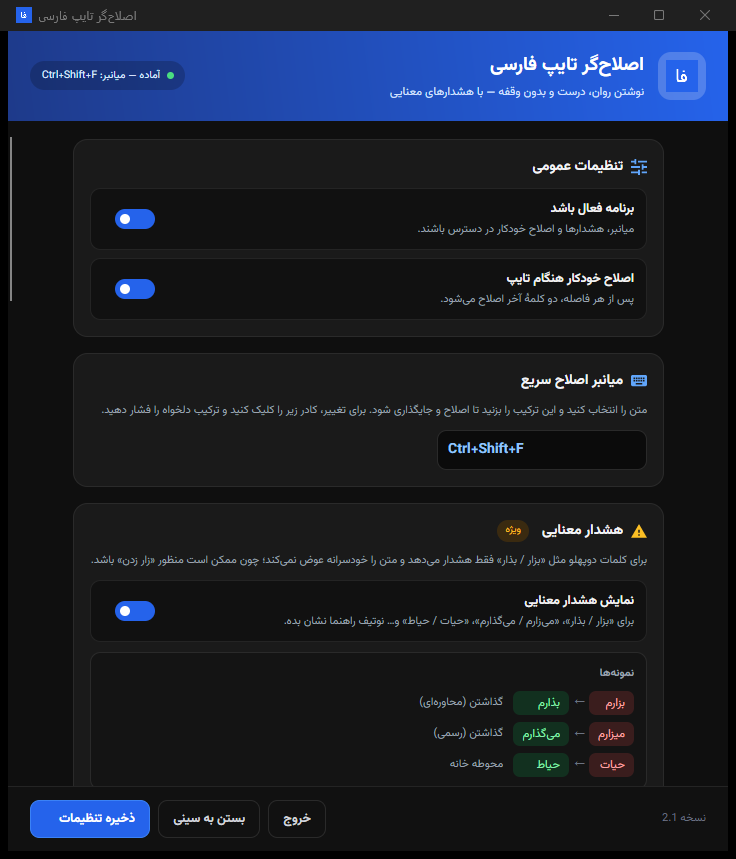
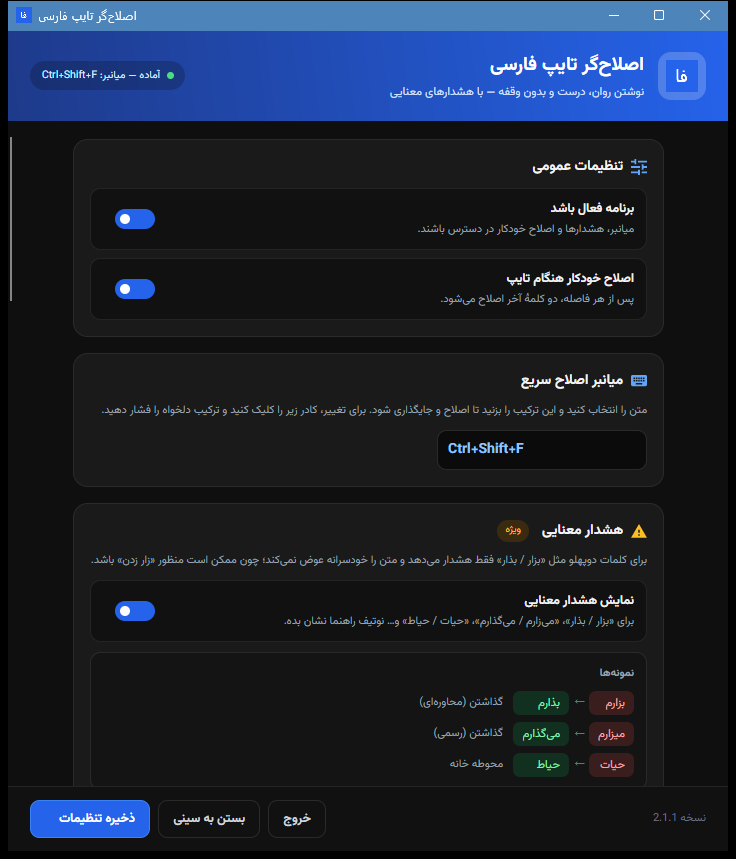
fix: prevent clipboard sentinel leaks and add Wayland fallback

Changed region(s): [[0.0, 0.0, 1.0, 0.0605], [0.875, 0.9383, 0.9062, 0.9686]]

diff --git a/dotnet/src/PersianTypoFixer.App/AppController.cs b/dotnet/src/PersianTypoFixer.App/AppController.cs
@@ -10,6 +10,7 @@ namespace PersianTypoFixer.App;
 public sealed class AppController
 {
     private const string Sentinel = "PTF-CLIP-SENTINEL-9A3F4B2C";
+    private const string SentinelPrefix = "PTF-CLIP-SENTINEL";
 
     private readonly IClassicDesktopStyleApplicationLifetime _lifetime;
     private readonly IInputBackend _input;
@@ -99,27 +100,34 @@ public sealed class AppController
         {
             _linuxHotkey?.Dispose();
             _linuxHotkey = null;
-            try
+            if (_input is LinuxInput { IsWayland: true })
             {
-                var hotkey = new LinuxHotkey(FixSelection, _config.Hotkey);
-                hotkey.Start();
-                if (hotkey.IsRegistered)
-                {
-                    _linuxHotkey = hotkey;
-                    SetStatus($"آماده — میانبر: {_config.Hotkey} (اصلاح خودکار هنگام تایپ فقط در ویندوز)");
-                }
-                else
-                {
-                    hotkey.Dispose();
-                    SetStatus("میانبر سراسری ثبت نشد (X11 لازم است)؛ از منوی سینی برای اصلاح متن استفاده کنید.");
-                }
+                SetStatus("حالت Wayland: میانبر سراسری در دسترس نیست؛ از منوی سینی برای اصلاح متن استفاده کنید.");
             }
-            catch (Exception ex)
+            else
             {
-                SetStatus("خطا در ثبت میانبر: " + ex.Message);
+                try
+                {
+                    var hotkey = new LinuxHotkey(FixSelection, _config.Hotkey);
+                    hotkey.Start();
+                    if (hotkey.IsRegistered)
+                    {
+                        _linuxHotkey = hotkey;
+                        SetStatus($"آماده — میانبر: {_config.Hotkey} (اصلاح خودکار هنگام تایپ فقط در ویندوز)");
+                    }
+                    else
+                    {
+                        hotkey.Dispose();
+                        SetStatus("میانبر سراسری ثبت نشد (X11 لازم است)؛ از منوی سینی برای اصلاح متن استفاده کنید.");
+                    }
+                }
+                catch (Exception ex)
+                {
+                    SetStatus("خطا در ثبت میانبر: " + ex.Message);
+                }
             }
             if (_input is LinuxInput linux && !linux.IsAvailable)
-                SetStatus(Status + " | xclip یا xsel نصب نیست؛ کلیپبورد در دسترس نیست.");
+                SetStatus(Status + " | ابزار کلیپبورد نصب نیست (wl-clipboard برای Wayland، xclip/xsel برای X11).");
         }
 
         if (_enabledItem != null)
@@ -139,6 +147,8 @@ public sealed class AppController
         _window?.UpdateStatus();
     }
 
+    private int _fixBusy;
+
     public void FixSelection() => FixSelectionCore(copyOnly: false);
 
     public void FixSelectionAndCopy() => FixSelectionCore(copyOnly: true);
@@ -150,66 +160,139 @@ public sealed class AppController
             SetStatus("برنامه غیرفعال است.");
             return;
         }
+        if (Interlocked.CompareExchange(ref _fixBusy, 1, 0) != 0)
+            return;
+
         Task.Run(() =>
         {
+            var backup = "";
+            var backupSaved = false;
+            var restoreBackup = false;
             try
             {
-                var backup = _input.GetClipboard();
+                if (OperatingSystem.IsLinux())
+                {
+                    var text = _input.GetSelection();
+                    if (string.IsNullOrWhiteSpace(text))
+                    {
+                        SetStatus("متنی انتخاب نشده بود.");
+                        return;
+                    }
+
+                    NotifyNotices(text);
+                    var fixedText = Fixer.FixText(text, _config);
+                    if (copyOnly)
+                    {
+                        _input.SetClipboard(fixedText);
+                        SetStatus(fixedText == text
+                            ? "متن در کلیپبورد کپی شد."
+                            : "متن اصلاحشده در کلیپبورد کپی شد.");
+                        return;
+                    }
+                    if (_input is LinuxInput { CanAutoPaste: false })
+                    {
+                        _input.SetClipboard(fixedText);
+                        SetStatus(fixedText == text
+                            ? "متن در کلیپبورد کپی شد؛ برای جایگذاری Paste کنید."
+                            : "متن اصلاحشده در کلیپبورد کپی شد؛ برای جایگذاری Paste کنید.");
+                        return;
+                    }
+                    if (fixedText == text)
+                    {
+                        SetStatus("تغییری لازم نبود.");
+                        return;
+                    }
+
+                    backup = _input.GetClipboard();
+                    backupSaved = true;
+                    restoreBackup = true;
+                    _input.SetClipboard(fixedText);
+                    Thread.Sleep(150);
+                    _input.Paste();
+                    Thread.Sleep(600);
+                    if (_input.GetClipboard() == fixedText)
+                        _input.SetClipboard(SafeBackup(backup));
+                    restoreBackup = false;
+                    SetStatus("متن انتخابشده اصلاح شد.");
+                    return;
+                }
+
+                backup = _input.GetClipboard();
+                backupSaved = true;
+                restoreBackup = true;
                 _input.SetClipboard(Sentinel);
                 Thread.Sleep(150);
+                if (_input.GetClipboard() != Sentinel)
+                {
+                    SetStatus("کلیپبورد در دسترس نیست.");
+                    return;
+                }
                 _input.Copy();
-                var text = Sentinel;
+                var selected = Sentinel;
                 var deadline = DateTime.UtcNow.AddMilliseconds(1200);
                 while (DateTime.UtcNow < deadline)
                 {
                     Thread.Sleep(30);
-                    text = _input.GetClipboard();
-                    if (text != Sentinel)
+                    selected = _input.GetClipboard();
+                    if (selected != Sentinel)
                         break;
                 }
-                if (text == Sentinel || string.IsNullOrWhiteSpace(text))
+                if (selected == Sentinel || string.IsNullOrWhiteSpace(selected))
                 {
-                    _input.SetClipboard(backup);
                     SetStatus("متنی انتخاب نشده بود.");
                     return;
                 }
-                NotifyNotices(text);
-                var fixedText = Fixer.FixText(text, _config);
+
+                NotifyNotices(selected);
+                var fixedSelection = Fixer.FixText(selected, _config);
                 if (copyOnly)
                 {
-                    _input.SetClipboard(fixedText);
-                    SetStatus(fixedText == text
+                    _input.SetClipboard(fixedSelection);
+                    restoreBackup = false;
+                    SetStatus(fixedSelection == selected
                         ? "متن در کلیپبورد کپی شد."
                         : "متن اصلاحشده در کلیپبورد کپی شد.");
                     return;
                 }
-                if (fixedText == text)
+                if (fixedSelection == selected)
                 {
-                    _input.SetClipboard(backup);
                     SetStatus("تغییری لازم نبود.");
                     return;
                 }
-                _input.SetClipboard(fixedText);
-                Thread.Sleep(OperatingSystem.IsLinux() ? 150 : 40);
+
+                _input.SetClipboard(fixedSelection);
+                Thread.Sleep(40);
                 _input.Paste();
-                _ = Task.Run(async () =>
-                {
-                    await Task.Delay(600).ConfigureAwait(false);
-                    try
-                    {
-                        _input.SetClipboard(backup);
-                    }
-                    catch
-                    {
-                    }
-                });
+                Thread.Sleep(600);
+                if (_input.GetClipboard() == fixedSelection)
+                    _input.SetClipboard(SafeBackup(backup));
+                restoreBackup = false;
                 SetStatus("متن انتخابشده اصلاح شد.");
             }
             catch (Exception ex)
             {
                 SetStatus("خطا: " + ex.Message);
             }
+            finally
+            {
+                if (restoreBackup && backupSaved)
+                {
+                    try
+                    {
+                        _input.SetClipboard(SafeBackup(backup));
+                    }
+                    catch
+                    {
+                    }
+                }
+                Interlocked.Exchange(ref _fixBusy, 0);
+            }
         });
+    }
+
+    private static string SafeBackup(string backup)
+    {
+        return backup.Contains(SentinelPrefix, StringComparison.Ordinal) ? "" : backup;
     }
 
     public void NotifyNotices(string text)
@@ -290,6 +373,9 @@ public sealed class AppController
 
     public void Exit()
     {
+        var deadline = DateTime.UtcNow.AddSeconds(2);
+        while (Volatile.Read(ref _fixBusy) != 0 && DateTime.UtcNow < deadline)
+            Thread.Sleep(50);
         try
         {
             _noticeTimer?.Stop();
@@ -385,6 +471,7 @@ public sealed class AppController
     private sealed class NullInput : IInputBackend
     {
         public string GetClipboard() => "";
+        public string? GetSelection() => null;
         public void SetClipboard(string text) { }
         public void PressBackspace(int count) { }
         public void Paste() { }

diff --git a/dotnet/src/PersianTypoFixer.Core/Platform/LinuxInput.cs b/dotnet/src/PersianTypoFixer.Core/Platform/LinuxInput.cs
@@ -29,36 +29,54 @@ public sealed class LinuxInput : IInputBackend
 
     private readonly string? _clipboardGet;
     private readonly string? _clipboardSet;
+    private readonly string? _selectionGet;
     private readonly string? _injector;
     private volatile bool _xtest = true;
 
     public LinuxInput()
     {
         var wayland = !string.IsNullOrEmpty(Environment.GetEnvironmentVariable("WAYLAND_DISPLAY"));
+        IsWayland = wayland;
         if (wayland && Which("wl-paste") != null && Which("wl-copy") != null)
         {
             _clipboardGet = "wl-paste --no-newline";
             _clipboardSet = "wl-copy";
+            _selectionGet = "wl-paste --primary --no-newline";
         }
         else if (Which("xclip") != null)
         {
             _clipboardGet = "xclip -selection clipboard -o";
             _clipboardSet = "xclip -selection clipboard -i";
+            _selectionGet = "xclip -selection primary -o";
         }
         else if (Which("xsel") != null)
         {
             _clipboardGet = "xsel --clipboard --output";
             _clipboardSet = "xsel --clipboard --input";
+            _selectionGet = "xsel --primary --output";
         }
         else
         {
             _clipboardGet = null;
             _clipboardSet = null;
+            _selectionGet = null;
         }
         _injector = Which("xdotool") != null ? "xdotool" : Which("ydotool") != null ? "ydotool" : null;
     }
 
+    public bool IsWayland { get; }
+
+    public bool CanAutoPaste => !IsWayland;
+
     public bool IsAvailable => _clipboardGet != null && _clipboardSet != null;
+
+    public string? GetSelection()
+    {
+        if (_selectionGet == null)
+            return null;
+        var (code, output) = RunGet(_selectionGet);
+        return code == 0 ? output : null;
+    }
 
     public string GetClipboard()
     {

diff --git a/dotnet/src/PersianTypoFixer.Core/Platform/WindowsInput.cs b/dotnet/src/PersianTypoFixer.Core/Platform/WindowsInput.cs
@@ -49,6 +49,8 @@ public sealed class WindowsInput : IInputBackend
 
     private const uint KEYEVENTF_KEYUP = 0x0002;
 
+    public string? GetSelection() => null;
+
     public string GetClipboard()
     {
         for (var attempt = 0; attempt < 10; attempt++)

diff --git a/dotnet/src/PersianTypoFixer.Core/Input.cs b/dotnet/src/PersianTypoFixer.Core/Input.cs
@@ -14,6 +14,7 @@ public sealed class KeyEvent
 public interface IInputBackend
 {
     string GetClipboard();
+    string? GetSelection();
     void SetClipboard(string text);
     void PressBackspace(int count);
     void Paste();
